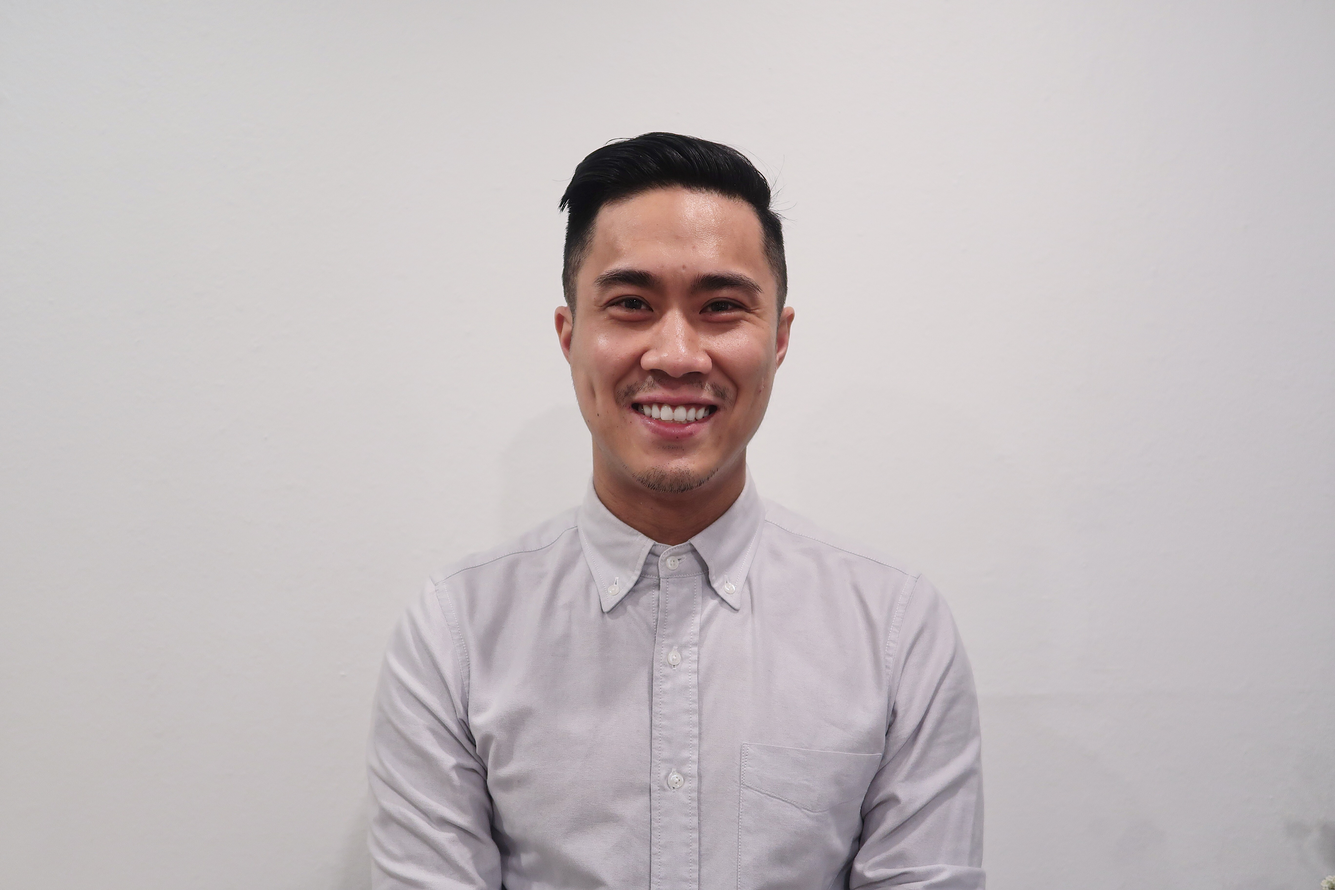
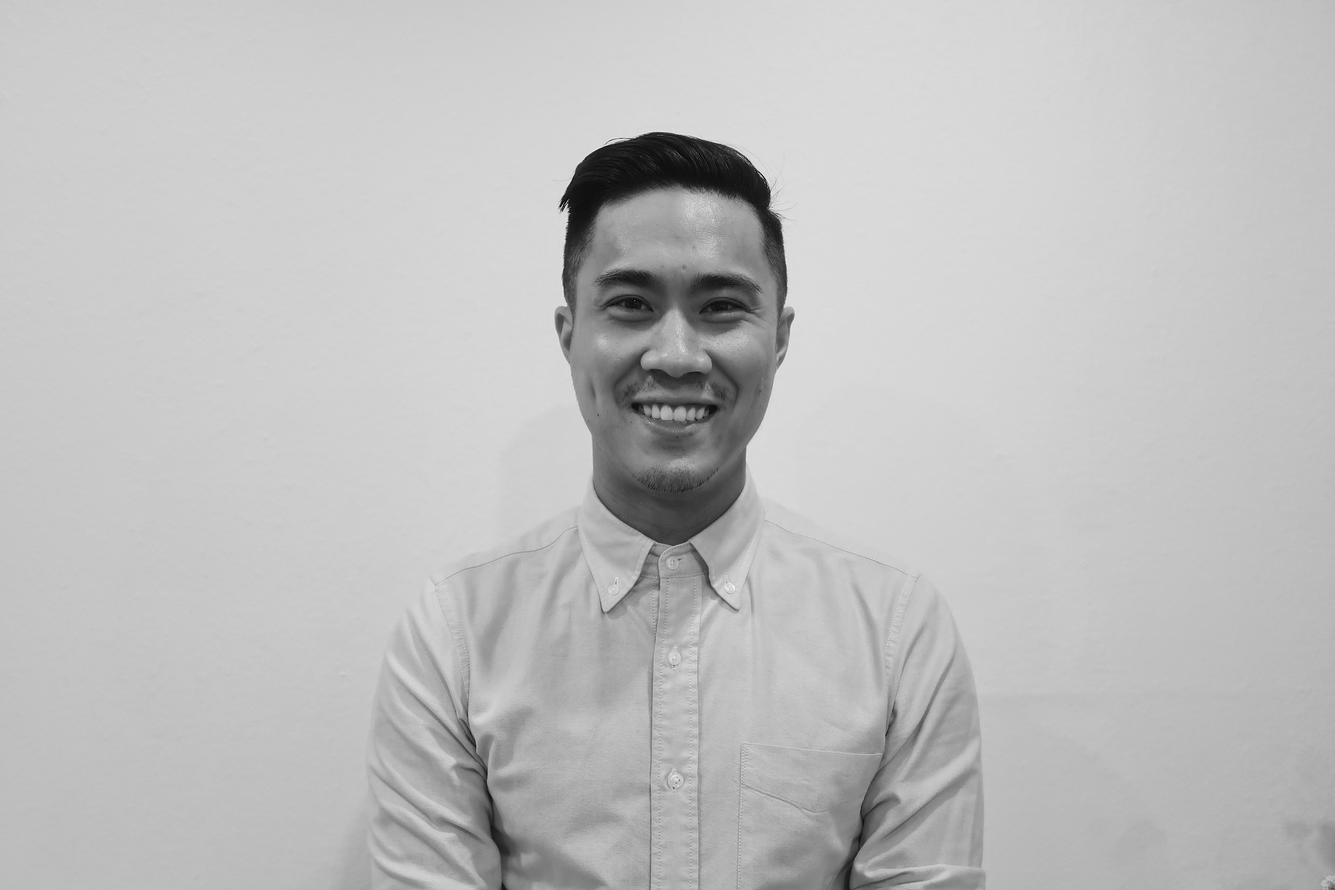
adjusted profile pic to bw. added window detection for projects list

Changed region(s): [[0.4062, 0.1875, 0.5938, 0.625]]

diff --git a/assets/javascript/portfolio.js b/assets/javascript/portfolio.js
@@ -11,7 +11,11 @@ var linkedIcon = "assets/images/linkedin.png";
 var googleIcon = "assets/images/google.jpg";
 var phoneIcon = "assets/images/phone.png";
 
-var intro = $("<p>").attr("id","intro").text("Hi! Thank you for stopping by! Please feel free to check out my projects and if you want to kill some time, click on Game and play a word guess game if you are on a desktop or a trivia game if you are viewing this page from your phone!");
+var intro = $("<p>")
+  .attr("id", "intro")
+  .text(
+    "Hi! Thank you for stopping by! Please feel free to check out my projects and if you want to kill some time, click on Game and play a word guess game if you are on a desktop or a trivia game if you are viewing this page from your phone!"
+  );
 
 var bio = [
   "Based in the Bay Area, I am currently a Designer / Job Captain at an architecture firm in San Francisco. I recently completed the Coding Bootcamp course at UC Berkley Extension and am very excited in starting a new path as a Full-Stack Web Developer!",
@@ -177,15 +181,15 @@ var greetDisp = $(".greetingContainer");
 
 $(document).ready(function() {
   var time = new Date().getHours();
-  if (time >= 0  && time < 12){
-      greetDisp.append("good morning!")
-  } else if (time >= 12 && time < 17){
-      greetDisp.append("good afternoon!")
-    } else if (time >= 17 && time < 24){
-      greetDisp.append("good evening!")
+  if (time >= 0 && time < 12) {
+    greetDisp.append("good morning!");
+  } else if (time >= 12 && time < 17) {
+    greetDisp.append("good afternoon!");
+  } else if (time >= 17 && time < 24) {
+    greetDisp.append("good evening!");
   }
-    setTimeout(render, 3000);
-//   render();
+  setTimeout(render, 3000);
+  //   render();
   //   console.log($(".imageContainer").text().length);
   //   console.log($(window).width()===600);
 });
@@ -334,7 +338,9 @@ function displayAbout() {
     .attr("id", "profileImg")
     .attr("alt", "me");
   for (i in bio) {
-    var bioDisp = $("<p>").attr("style", "font-style:italic;").text(bio[i]);
+    var bioDisp = $("<p>")
+      .attr("style", "font-style:italic;")
+      .text(bio[i]);
     bioDiv.append(bioDisp);
   }
 
@@ -344,9 +350,17 @@ function displayAbout() {
 //view button function
 disp.on("click", ".project", function() {
   $(window).scrollTop(0);
+  projDisp.removeAttr("id", "info");
+  var windowSize = $($(window).width());
+  console.log(windowSize[0]);
+  if (windowSize[0] <= 650) {
+    console.log("true");
+    disp.removeAttr("id", "flyIn").empty();
+  }
   $(".navButton").removeClass("active");
-  aboutDisp.empty();  
-  disp.removeAttr("id", "flyIn").empty();
+  aboutDisp.empty();
+  projDisp.empty();
+  //   disp.removeAttr("id", "flyIn").empty();
   imgDisp.removeAttr("id", "flyIn").empty();
   imgDisp.css("height", "400px");
   projDisp.attr("id", "info");

diff --git a/index.html b/index.html
@@ -25,3 +25,6 @@
     <script src="assets/javascript/portfolio.js"></script>
   </body>
 </html>
+
+
+
